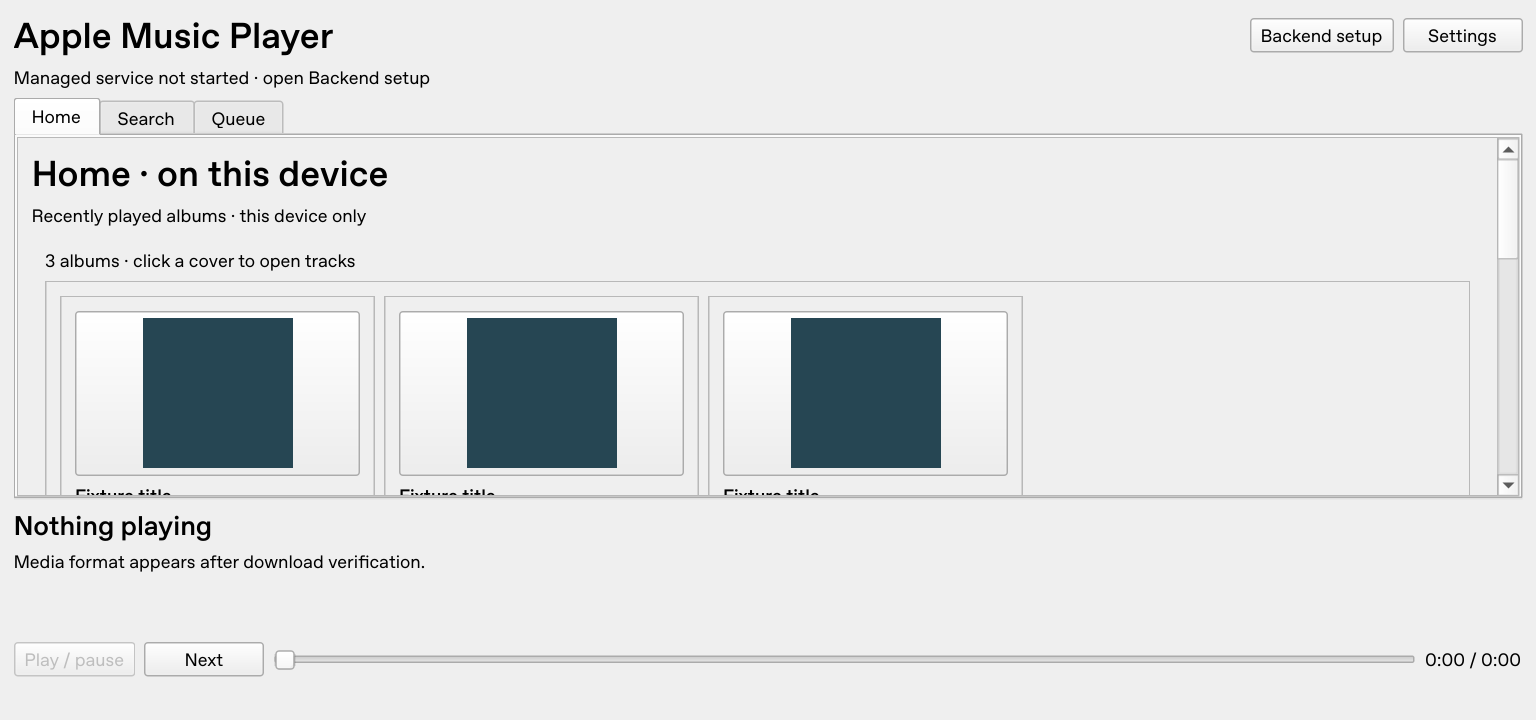
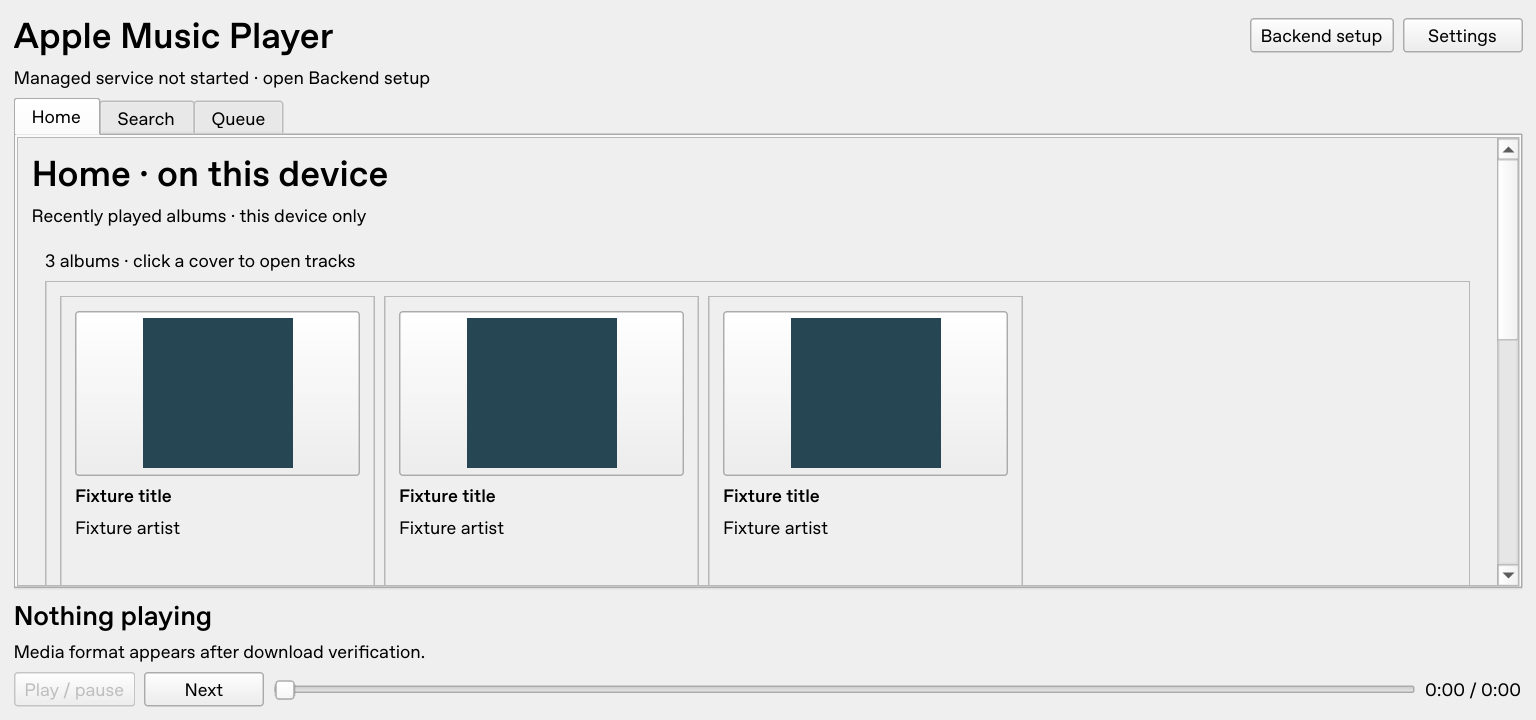
Remove repeated store controls and keep one contextual attribution badge

Changed region(s): [[0.0, 0.6722, 1.0, 1.0]]

diff --git a/src/apple_music_player/app.py b/src/apple_music_player/app.py
@@ -74,6 +74,7 @@ class Window(QMainWindow):
         self.detail_card = None
         self.now_card = None
         self.now_album = None
+        self.badge_context = None
         self.settings_path = self.cache.root / "settings.json"
         if self.settings_path.is_symlink():
             raise PlayerError("Settings file must not be a symlink.")
@@ -148,9 +149,11 @@ class Window(QMainWindow):
         home_layout.addWidget(home_title)
         home_layout.addWidget(QLabel("Recently played albums · this device only"))
         self.recent_shelf = Shelf(self.artwork, self.open_album)
+        self.recent_shelf.focused.connect(self.set_badge_context)
         home_layout.addWidget(self.recent_shelf)
         home_layout.addWidget(QLabel("Recent releases from artists you’ve played"))
         self.release_shelf = Shelf(self.artwork, self.open_album)
+        self.release_shelf.focused.connect(self.set_badge_context)
         home_layout.addWidget(self.release_shelf)
         self.release_status = QLabel(
             "Last 90 days · limited public catalog; dates may include reissues"
@@ -261,7 +264,7 @@ class Window(QMainWindow):
         layout.addLayout(queue_buttons)
         layout = root_layout
         # One badge for the whole visible layout, outside scrolling content and directly
-        # between catalog artwork and now playing. Cards retain their own destination links.
+        # between catalog artwork and now playing, with the focused album as destination.
         self.badge_album = None
         self.badge_strip = QWidget()
         badge_row = QHBoxLayout(self.badge_strip)
@@ -321,6 +324,7 @@ class Window(QMainWindow):
         QTimer.singleShot(0, self.start_saved_backend)
 
     def navigation_changed(self, index):
+        self.badge_context = None
         self.invalidate_search()
         self.release_context = None
         if index == 0:
@@ -334,6 +338,7 @@ class Window(QMainWindow):
         self.request_catalog(self.catalog.album, album.id, album.country, album_title=album.title)
 
     def show_selected_album(self, row):
+        self.badge_context = self.album_header.album
         if self.detail_card:
             self.detail_host.removeWidget(self.detail_card)
             self.detail_card.deleteLater()
@@ -344,7 +349,9 @@ class Window(QMainWindow):
             item = self.results[row]
             album = item if isinstance(item, Album) else item.album
             if album:
+                self.badge_context = album
                 self.detail_card = AlbumCard(album, self.artwork, self.open_album)
+                self.detail_card.focused.connect(self.set_badge_context)
                 self.detail_host.addWidget(self.detail_card)
 
     def show_album_header(self):
@@ -358,6 +365,10 @@ class Window(QMainWindow):
             self.result_buttons.insertWidget(2, self.play_album_button)
             self.result_buttons.insertWidget(3, self.all_button)
         self.play_album_button.setVisible(album is not None)
+
+    def set_badge_context(self, album):
+        self.badge_context = album
+        self.refresh_artwork()
 
     def open_badge_album(self):
         if self.badge_album:
@@ -377,6 +388,8 @@ class Window(QMainWindow):
             )
         if self.now_card:
             candidates.append(self.now_card.album)
+        if self.badge_context in candidates:
+            candidates.insert(0, self.badge_context)
         self.badge_album = next((a for a in candidates if a and allowed_url(a.artwork_url)), None)
         badge = self.artwork.get(BADGE_URL) if self.badge_album else None
         badge_ready = badge is not None and not badge.isNull()
@@ -883,6 +896,7 @@ class Window(QMainWindow):
                 AlbumCard(album, self.artwork, self.open_album, compact=True) if album else None
             )
             if self.now_card:
+                self.now_card.focused.connect(self.set_badge_context)
                 self.now_host.addWidget(self.now_card)
         self.media_label.setText(
             c.media.label if c.media else "Media format appears after download verification."

diff --git a/src/apple_music_player/browsing.py b/src/apple_music_player/browsing.py
@@ -2,8 +2,8 @@
 
 from urllib.parse import urlsplit
 
-from PySide6.QtCore import QRect, QSize, Qt, QUrl
-from PySide6.QtGui import QColor, QDesktopServices, QIcon, QPalette, QPixmap
+from PySide6.QtCore import QEvent, QRect, QSize, Qt, Signal
+from PySide6.QtGui import QColor, QIcon, QPalette, QPixmap
 from PySide6.QtWidgets import (
     QApplication,
     QFrame,
@@ -81,6 +81,8 @@ class TrackRowDelegate(QStyledItemDelegate):
 
 
 class AlbumCard(QFrame):
+    focused = Signal(object)
+
     def __init__(self, album, artwork, opened, compact=False):
         super().__init__()
         self.album, self.artwork = album, artwork
@@ -93,6 +95,7 @@ class AlbumCard(QFrame):
         self.cover.setIconSize(QSize(100, 100))
         self.cover.setFixedHeight(110)
         self.cover.setAccessibleName("Open " + album.title)
+        self.cover.installEventFilter(self)
         self.cover.clicked.connect(lambda: opened(album))
         layout.addWidget(self.cover)
         self.title = QLabel(album.album_title or album.title)
@@ -104,11 +107,6 @@ class AlbumCard(QFrame):
         artist.setTextFormat(Qt.PlainText)
         artist.setWordWrap(True)
         layout.addWidget(artist)
-        self.store = QPushButton("View album in iTunes")
-        self.store.setAccessibleName("View " + album.title + " in iTunes")
-        self.store.clicked.connect(lambda: QDesktopServices.openUrl(QUrl(store_link(album))))
-        self.store.setMinimumHeight(40)
-        layout.addWidget(self.store)
         if compact:
             self.setFixedWidth(145)
             self.cover.setFixedHeight(54)
@@ -116,6 +114,11 @@ class AlbumCard(QFrame):
             self.title.hide()
             artist.hide()
         self.revision = -1
+
+    def eventFilter(self, watched, event):
+        if watched is self.cover and event.type() in (QEvent.Enter, QEvent.FocusIn):
+            self.focused.emit(self.album)
+        return super().eventFilter(watched, event)
 
     def refresh(self):
         # The window supplies one shared official badge beside the visible artwork view.
@@ -155,11 +158,6 @@ class AlbumHeader(QWidget):
         text.addWidget(self.details)
         self.actions = QHBoxLayout()
         text.addLayout(self.actions)
-        self.store = QPushButton("View album in iTunes")
-        self.store.clicked.connect(
-            lambda: QDesktopServices.openUrl(QUrl(store_link(self.album))) if self.album else None
-        )
-        text.addWidget(self.store, 0, Qt.AlignLeft)
         row.addLayout(text, 1)
         self.hide()
 
@@ -190,6 +188,8 @@ class AlbumHeader(QWidget):
 
 
 class Shelf(QWidget):
+    focused = Signal(object)
+
     def __init__(self, artwork, opened):
         super().__init__()
         self.artwork, self.opened = artwork, opened
@@ -200,7 +200,7 @@ class Shelf(QWidget):
         outer.addWidget(self.note)
         self.scroll = QScrollArea()
         self.scroll.setWidgetResizable(True)
-        self.scroll.setMinimumHeight(260)
+        self.scroll.setMinimumHeight(220)
         self.content = QWidget()
         self.row = QHBoxLayout(self.content)
         self.row.setAlignment(Qt.AlignLeft)
@@ -213,6 +213,7 @@ class Shelf(QWidget):
             card.deleteLater()
         self.cards = [AlbumCard(album, self.artwork, self.opened) for album in albums[:20]]
         for card in self.cards:
+            card.focused.connect(self.focused.emit)
             self.row.addWidget(card)
         self.note.setText(
             empty if not albums else f"{len(albums)} albums · click a cover to open tracks"

diff --git a/tests/test_browsing.py b/tests/test_browsing.py
@@ -458,8 +458,7 @@ def test_one_shared_badge_for_home_search_and_now_playing(app, tmp_path, monkeyp
         assert 0 <= strip_top - pages_bottom <= 16
         assert strip_bottom < window.now_card.mapTo(window, QPoint()).y()
         assert window.pause_button.mapTo(window, window.pause_button.rect().bottomLeft()).y() < 480
-        assert window.now_card.store.icon().isNull()
-        assert window.now_card.store.text() == "View album in iTunes"
+        assert not hasattr(window.now_card, "store")
         window.store_badge.click()
         assert opened[-1] == store_link(window.badge_album)
 
@@ -467,13 +466,13 @@ def test_one_shared_badge_for_home_search_and_now_playing(app, tmp_path, monkeyp
         verify()
         assert window.home_scroll.verticalScrollBar().maximum() > 0
         for card in window.recent_shelf.cards + window.release_shelf.cards:
-            assert card.store.icon().isNull() and card.store.text() == "View album in iTunes"
+            assert not hasattr(card, "store")
         window.pages.setCurrentIndex(1)
         window.results = [album]
         window.result_list.addItem(album.title)
         window.result_list.setCurrentRow(0)
         verify()
-        assert window.detail_card.store.icon().isNull()
+        assert not hasattr(window.detail_card, "store")
         window.results = [TRACK]
         window.result_list.clear()
         window.result_list.addItem(TRACK.title)
@@ -649,5 +648,57 @@ def test_text_rows_duration_column_and_short_play_label(app, tmp_path, monkeypat
         window.resize(1000, 480)
         app.processEvents()
         assert window.height() == 480
+    finally:
+        window.close()
+
+
+def test_no_repeated_store_controls_and_shared_badge_tracks_focused_album(
+    app, tmp_path, monkeypatch
+):
+    from PySide6.QtWidgets import QPushButton
+
+    from apple_music_player.browsing import store_link
+
+    window = Window(tmp_path / "cache")
+    window.startup_attempted = True
+    window.timer.stop()
+    monkeypatch.setattr(window, "refresh_releases", lambda: None)
+    monkeypatch.setattr(window.controller, "tick", lambda: None)
+    image = decode(png())
+    monkeypatch.setattr(window.artwork, "get", lambda url: image)
+    opened = []
+    monkeypatch.setattr(
+        "apple_music_player.app.QDesktopServices.openUrl", lambda url: opened.append(url.toString())
+    )
+    window.show()
+    app.processEvents()
+    albums = [
+        Album(
+            "br",
+            str(n),
+            f"Album {n}",
+            artwork_url=URL,
+            store_url=f"https://music.apple.com/br/album/fixture/{n}",
+        )
+        for n in [201, 202]
+    ]
+    try:
+        window.recent_shelf.set_albums(albums, "")
+        app.processEvents()
+        second = window.recent_shelf.cards[1]
+        second.cover.setFocus(Qt.TabFocusReason)
+        app.processEvents()
+        window.refresh_artwork()
+        assert window.badge_album == albums[1]
+        window.store_badge.click()
+        assert opened == [store_link(albums[1])]
+        assert len(window.findChildren(QPushButton, "itunesStoreBadge")) == 1
+        assert not [
+            b for b in window.findChildren(QPushButton) if "View album in iTunes" in b.text()
+        ]
+        assert not hasattr(window.album_header, "store")
+        window.pages.setCurrentIndex(2)
+        window.refresh_artwork()
+        assert window.badge_strip.isHidden()  # No old Home target remains on an empty Queue page.
     finally:
         window.close()

diff --git a/docs/browsing.md b/docs/browsing.md
@@ -6,7 +6,7 @@ Home shows albums actually played on this device, after mpv verifies output and 
 
 Search, album details and now playing use returned artwork URLs without undocumented resizing; `artworkUrl100` is normally 100px. Fetches run on two workers with bounded pending work, HTTPS host/redirect checks, timeouts, 2 MiB encoded and 2048px decoded limits. A separate 32 MiB/512-file artwork cache uses hashed names and atomic writes; corrupt files recover with placeholders. This allowance is additional to the media cache and staging budget.
 
-Artwork is promotional material. Cards provide individual direct store text links. One shared official badge sits in a non-scrolling strip immediately below the browsing view and above now playing, covering the visible layout without repeating badges on cards. Its caption identifies the album destination: selected search/album detail, first displayed Home album, or now-playing album when no browsing artwork is shown. Covers are displayed only when the approved iTunes badge has loaded; otherwise neutral placeholders and text links remain. The official badge download was blocked with HTTP 403 in the development environment, so live badge/artwork delivery is not claimed validated. No substitute Apple branding is bundled.
+Artwork is promotional material. One shared official badge sits in a non-scrolling strip immediately below the browsing view and above now playing, covering the visible layout without repeating badges on cards. Its caption identifies the album destination: focused/hovered Home or now-playing cover, selected search/album detail, or the first displayed album by default. Covers are displayed only when the approved iTunes badge has loaded; otherwise neutral placeholders and text links remain. The official badge download was blocked with HTTP 403 in the development environment, so live badge/artwork delivery is not claimed validated. No substitute Apple branding is bundled.
 
 Sources: [Search API and promotional-content conditions](https://performance-partners.apple.com/search-api), [official badge guidelines](https://marketing.services.apple/itunes-identity-guidelines). Tests use synthetic images and metadata. `home-smoke.png` and `browsing-search-smoke.png` show neutral synthetic fixtures, not account data or live artwork.
 
@@ -16,7 +16,7 @@ Transient artwork network failures and HTTP 5xx responses now expose a **Retry a
 
 The original badge attempt was recorded as a 403 during tunnel establishment; the complete original exception/headers were not retained, so an origin response cannot be established. The URL came from the image link under section 1.1 of the official guidelines, not from a verified asset download. No denied request was retried during this fix.
 
-Badge placement follows section 1.4's one-badge-per-layout guidance: a single shared strip is adjacent to the visible browsing and now-playing artwork areas and remains outside scrolling content. Individual cards retain their actual album links. The official badge preserves aspect ratio at a 40px target height with surrounding space; no substitute branding is generated. Tests assert one visible badge, adjacent placement, destination links and placeholder restoration when the badge is unavailable on Home, Search/album detail and Queue with now-playing artwork, including a 480-logical-pixel viewport at 150% scale. These layout choices are not a legal review or a claim of blanket permission for API artwork use. Live badge/artwork delivery remains unverified.
+Badge placement follows section 1.4's one-badge-per-layout guidance: a single shared strip is adjacent to the visible browsing and now-playing artwork areas and remains outside scrolling content. Repeated per-card/header/now-playing store text controls are removed; the shared badge retains the contextual direct catalog destination. The official badge preserves aspect ratio at a 40px target height with surrounding space; no substitute branding is generated. Tests assert one visible badge, adjacent placement, destination links and placeholder restoration when the badge is unavailable on Home, Search/album detail and Queue with now-playing artwork, including a 480-logical-pixel viewport at 150% scale. These layout choices are not a legal review or a claim of blanket permission for API artwork use. Live badge/artwork delivery remains unverified.
 
 With both Home shelves populated, the old layout forced a 1019px minimum window height. Home and Search now scroll vertically, keeping transport controls outside the scrolled area. `home-small-screen-smoke.png` is a synthetic 480-logical-pixel viewport rendered at 150% scale (720 physical pixels); both shelves are populated and reachable by scrolling. No live artwork is shown.
 
@@ -28,8 +28,10 @@ Album search now requests the documented maximum of 200 results instead of 50; s
 
 The reported `faye webster Atlanta Millionaires Club` omission is not yet reproduced against a live iTunes search response. Apple's [BR album page](https://music.apple.com/br/album/atlanta-millionaires-club/1452886606) confirms the album and provides its direct URL, which can be pasted into Open URL to request collection lookup independently of search ranking. The larger limit is a bounded improvement, not a proven fix for that specific omission. Synthetic regression fixtures exercise the exact query and URL.
 
-The album layout now follows the agreed text requirements: one cover/title/artist/release-date/track-count header, adjacent Play album and Queue album buttons, and compact text-only rows containing track number, title — album artist, and a right-aligned duration. Changing track selection no longer creates a second album pane. Empty playback/error labels stop consuming vertical space; active media/output/fallback labels remain visible. The single shared badge and actual album store links are preserved.
+The album layout now follows the agreed text requirements: one cover/title/artist/release-date/track-count header, adjacent Play album and Queue album buttons, and compact text-only rows containing track number, title — album artist, and a right-aligned duration. Changing track selection no longer creates a second album pane. Empty playback/error labels stop consuming vertical space; active media/output/fallback labels remain visible. The single shared badge retains the contextual catalog destination without repeated store text controls.
 
 The original three Library screenshots failed local transfer, so exact comparison to their pixels remains unverified; this is a text-specified redesign, not a claim of visual fidelity. `album-compact.png` and `album-compact-small.png` show inspected synthetic fixtures at normal size and 150% scaling. Small viewports scroll the album content while keeping transport outside it. No user screenshot or account data is published.
 
 Album row durations come from `trackTimeMillis`, formatted as m:ss (or h:mm:ss for long tracks). Missing/invalid durations show “—”. Disc/track numbers come from catalog metadata; multi-disc albums show a disc prefix, and missing numbers show “—” rather than a fabricated track number. The collection artist is used for album rows and the header, with the track artist as fallback when collection metadata is absent; compilation performers remain separately represented in track metadata. The Play album tooltip explains replacement behavior while the visible label stays short.
+
+The Search API promotional-content condition requires a nearby approved badge linking directly to the promoted store content; it does not specify a separate per-album text button. The shared badge remains, with its destination updated by album focus/hover and selection. This implements the chosen attribution approach without claiming legal review.
